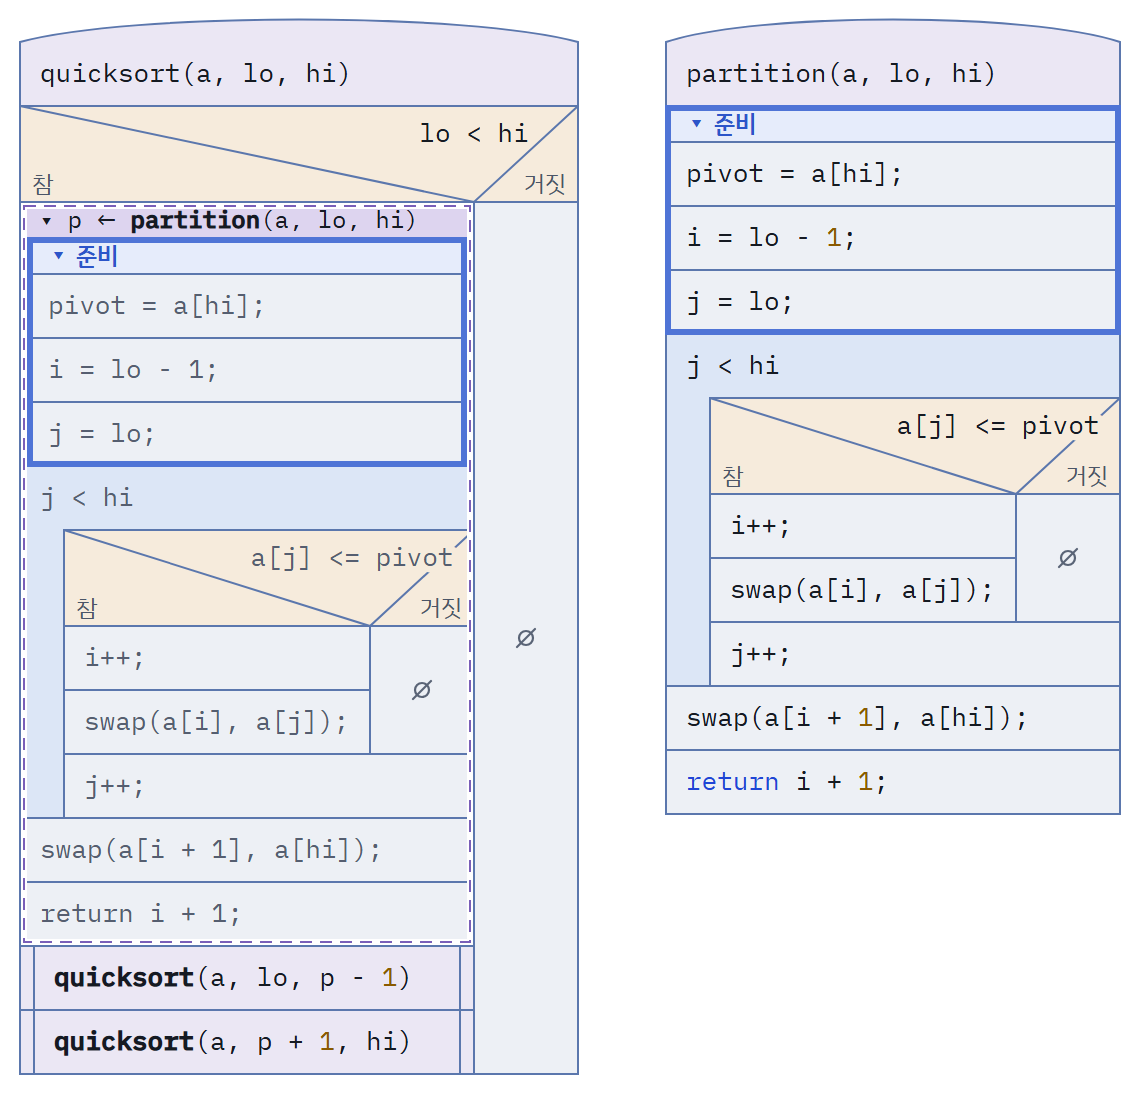
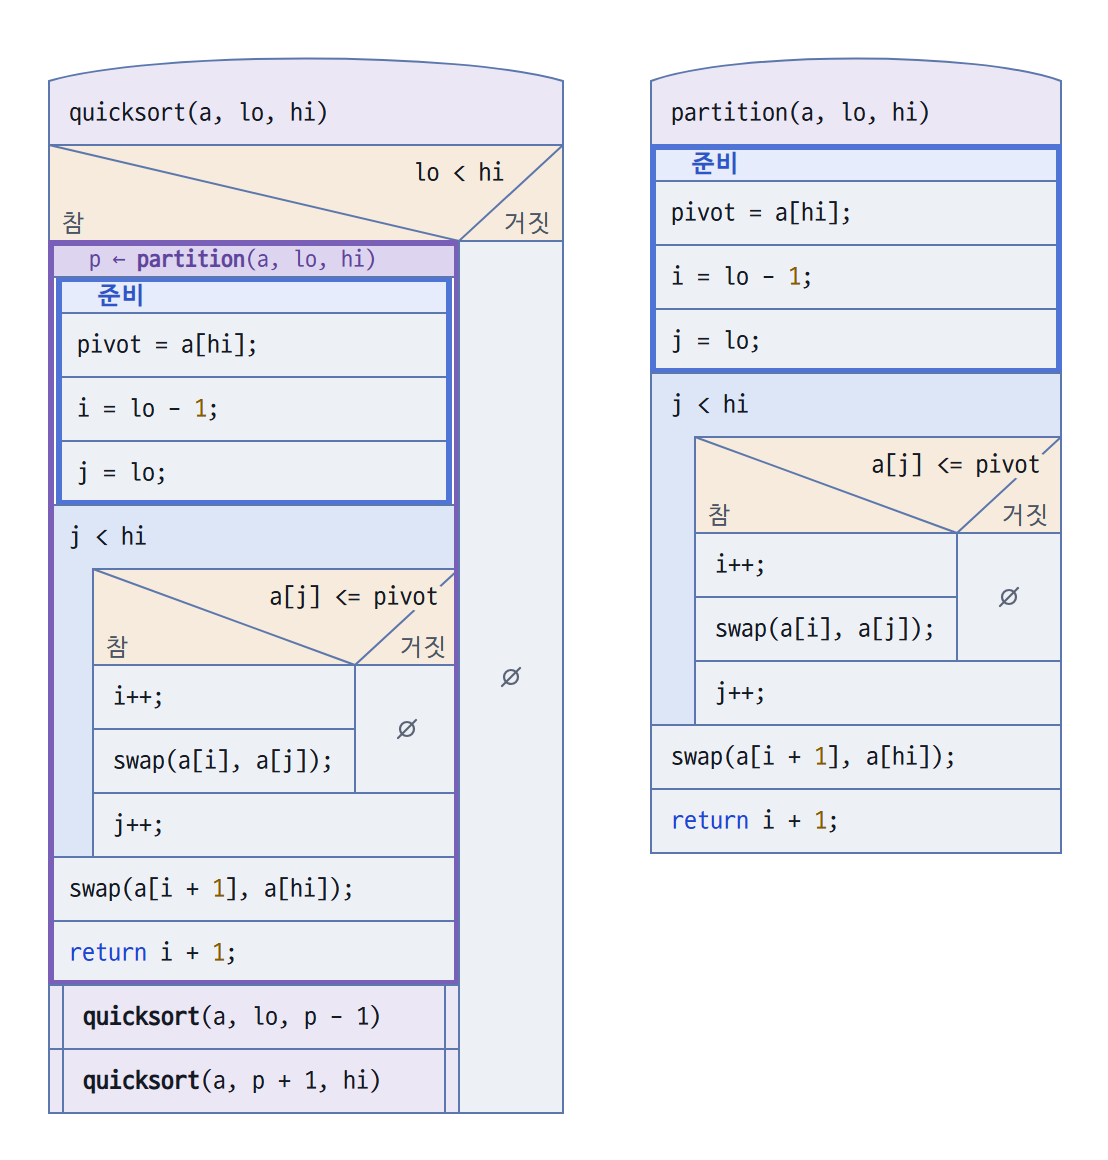
docs(visual-design): 시각 디자인 문서를 지금 코드에 맞게 현행화
글꼴을 하나로(비례폭 자리 없앰), 화면 색의 역할, 선 · 상태 표의 값(이름 띠 아래 구조선,
드롭 눈금, 상태 표시줄의 모드 자리 등), 해부도의 접기 영역을 코드에 맞춘다. 문서 레이어
그림은 앱의 렌더러로 다시 그린다. 11장은 프로토타입과의 차이 대신 명세와 지금 코드가
다른 곳을 적는다. 어느 쪽이 맞는지 정하지 못한 곳은 명세를 그대로 두고 11장에 밝힌다.

diff --git a/journal/assets/2026-11-18-visual-design-marks.html b/journal/assets/2026-11-18-visual-design-marks.html
@@ -1,0 +1,83 @@
[1 lines of base64/hex data omitted]
+<path d="M24 40 C75.4 25 229.6 25 281 40 L281 72 L24 72 Z" fill="#ebe7f4" stroke="#5b77ad" stroke-width="1"/>
+<text x="34" y="60" font-size="13" fill="#151a22" xml:space="preserve">quicksort(a, lo, hi)</text>
+<rect x="24" y="72" width="257" height="48" fill="#f6ebdc" stroke="#5b77ad" stroke-width="1" shape-rendering="crispEdges"/>
+<path d="M24 72 L229 120 L281 72" fill="none" stroke="#5b77ad" stroke-width="1"/>
+<text x="229" y="90" text-anchor="middle" font-size="13" fill="#151a22" stroke="#f6ebdc" stroke-width="6" stroke-linejoin="round" paint-order="stroke" xml:space="preserve">lo &lt; hi</text>
+<text x="30" y="115" font-size="12" fill="#4b5567" xml:space="preserve">참</text>
+<text x="275" y="115" text-anchor="end" font-size="12" fill="#4b5567" xml:space="preserve">거짓</text>
+<rect x="28" y="156" width="197" height="32" fill="#edf0f5" stroke="#5b77ad" stroke-width="1" shape-rendering="crispEdges"/>
+<text x="38" y="176" font-size="13" fill="#151a22" xml:space="preserve">pivot = a[hi];</text>
+<rect x="28" y="188" width="197" height="32" fill="#edf0f5" stroke="#5b77ad" stroke-width="1" shape-rendering="crispEdges"/>
+<text x="38" y="208" font-size="13" fill="#151a22" xml:space="preserve">i = lo - <tspan fill="#8a5a00">1</tspan>;</text>
+<rect x="28" y="220" width="197" height="32" fill="#edf0f5" stroke="#5b77ad" stroke-width="1" shape-rendering="crispEdges"/>
+<text x="38" y="240" font-size="13" fill="#151a22" xml:space="preserve">j = lo;</text>
+<rect x="28" y="138" width="197" height="18" fill="#e6ecfb" stroke="#5b77ad" stroke-width="1" shape-rendering="crispEdges"/>
+<text x="48" y="151" font-size="12" fill="#2c55c9" xml:space="preserve"><tspan font-weight="600">준비</tspan></text>
+<rect x="29" y="139" width="195" height="112" fill="none" stroke="#4f74d6" stroke-width="3" shape-rendering="crispEdges"/>
+<rect x="24" y="252" width="205" height="176" fill="#dce6f6" stroke="#5b77ad" stroke-width="1" shape-rendering="crispEdges"/>
+<text x="34" y="272" font-size="13" fill="#151a22" xml:space="preserve">j &lt; hi</text>
+<rect x="46" y="284" width="183" height="48" fill="#f6ebdc" stroke="#5b77ad" stroke-width="1" shape-rendering="crispEdges"/>
+<path d="M46 284 L177 332 L229 284" fill="none" stroke="#5b77ad" stroke-width="1"/>
+<text x="176.5" y="302" text-anchor="middle" font-size="13" fill="#151a22" stroke="#f6ebdc" stroke-width="6" stroke-linejoin="round" paint-order="stroke" xml:space="preserve">a[j] &lt;= pivot</text>
+<text x="52" y="327" font-size="12" fill="#4b5567" xml:space="preserve">참</text>
+<text x="223" y="327" text-anchor="end" font-size="12" fill="#4b5567" xml:space="preserve">거짓</text>
+<rect x="46" y="332" width="131" height="32" fill="#edf0f5" stroke="#5b77ad" stroke-width="1" shape-rendering="crispEdges"/>
+<text x="56" y="352" font-size="13" fill="#151a22" xml:space="preserve">i++;</text>
+<rect x="46" y="364" width="131" height="32" fill="#edf0f5" stroke="#5b77ad" stroke-width="1" shape-rendering="crispEdges"/>
+<text x="56" y="384" font-size="13" fill="#151a22" xml:space="preserve">swap(a[i], a[j]);</text>
+<rect x="177" y="332" width="52" height="64" fill="#edf0f5" stroke="#5b77ad" stroke-width="1" shape-rendering="crispEdges"/>
+<circle cx="203" cy="364" r="3.5" fill="none" stroke="#5a6476" stroke-width="1.1"/>
+<path d="M198.5 368.5 L207.5 359.5" fill="none" stroke="#5a6476" stroke-width="1.1" stroke-linecap="round"/>
+<rect x="46" y="396" width="183" height="32" fill="#edf0f5" stroke="#5b77ad" stroke-width="1" shape-rendering="crispEdges"/>
+<text x="56" y="416" font-size="13" fill="#151a22" xml:space="preserve">j++;</text>
+<rect x="24" y="428" width="205" height="32" fill="#edf0f5" stroke="#5b77ad" stroke-width="1" shape-rendering="crispEdges"/>
+<text x="34" y="448" font-size="13" fill="#151a22" xml:space="preserve">swap(a[i + <tspan fill="#8a5a00">1</tspan>], a[hi]);</text>
+<rect x="24" y="460" width="205" height="32" fill="#edf0f5" stroke="#5b77ad" stroke-width="1" shape-rendering="crispEdges"/>
+<text x="34" y="480" font-size="13" fill="#151a22" xml:space="preserve"><tspan fill="#1f45d6">return</tspan> i + <tspan fill="#8a5a00">1</tspan>;</text>
+<rect x="24" y="120" width="205" height="18" fill="#ddd4ef" stroke="#5b77ad" stroke-width="1" shape-rendering="crispEdges"/>
+<text x="44" y="133" font-size="12" fill="#5f459f" xml:space="preserve">p ← <tspan font-weight="600">partition</tspan>(a, lo, hi)</text>
+<rect x="25" y="121" width="203" height="370" fill="none" stroke="#7a5fb8" stroke-width="3" shape-rendering="crispEdges"/>
+<rect x="24" y="492" width="205" height="32" fill="#ebe7f4" stroke="#5b77ad" stroke-width="1" shape-rendering="crispEdges"/>
+<path d="M31 492 L31 524" fill="none" stroke="#5b77ad" stroke-width="1"/>
+<path d="M222 492 L222 524" fill="none" stroke="#5b77ad" stroke-width="1"/>
+<text x="41" y="512" font-size="13" fill="#151a22" xml:space="preserve"><tspan font-weight="600">quicksort</tspan>(a, lo, p - 1)</text>
+<rect x="24" y="524" width="205" height="32" fill="#ebe7f4" stroke="#5b77ad" stroke-width="1" shape-rendering="crispEdges"/>
+<path d="M31 524 L31 556" fill="none" stroke="#5b77ad" stroke-width="1"/>
+<path d="M222 524 L222 556" fill="none" stroke="#5b77ad" stroke-width="1"/>
+<text x="41" y="544" font-size="13" fill="#151a22" xml:space="preserve"><tspan font-weight="600">quicksort</tspan>(a, p + 1, hi)</text>
+<rect x="229" y="120" width="52" height="436" fill="#edf0f5" stroke="#5b77ad" stroke-width="1" shape-rendering="crispEdges"/>
+<circle cx="255" cy="338" r="3.5" fill="none" stroke="#5a6476" stroke-width="1.1"/>
+<path d="M250.5 342.5 L259.5 333.5" fill="none" stroke="#5a6476" stroke-width="1.1" stroke-linecap="round"/>
+<path d="M325 40 C366 25 489 25 530 40 L530 72 L325 72 Z" fill="#ebe7f4" stroke="#5b77ad" stroke-width="1"/>
+<text x="335" y="60" font-size="13" fill="#151a22" xml:space="preserve">partition(a, lo, hi)</text>
+<rect x="325" y="90" width="205" height="32" fill="#edf0f5" stroke="#5b77ad" stroke-width="1" shape-rendering="crispEdges"/>
+<text x="335" y="110" font-size="13" fill="#151a22" xml:space="preserve">pivot = a[hi];</text>
+<rect x="325" y="122" width="205" height="32" fill="#edf0f5" stroke="#5b77ad" stroke-width="1" shape-rendering="crispEdges"/>
+<text x="335" y="142" font-size="13" fill="#151a22" xml:space="preserve">i = lo - <tspan fill="#8a5a00">1</tspan>;</text>
+<rect x="325" y="154" width="205" height="32" fill="#edf0f5" stroke="#5b77ad" stroke-width="1" shape-rendering="crispEdges"/>
+<text x="335" y="174" font-size="13" fill="#151a22" xml:space="preserve">j = lo;</text>
+<rect x="325" y="72" width="205" height="18" fill="#e6ecfb" stroke="#5b77ad" stroke-width="1" shape-rendering="crispEdges"/>
+<text x="345" y="85" font-size="12" fill="#2c55c9" xml:space="preserve"><tspan font-weight="600">준비</tspan></text>
+<rect x="326" y="73" width="203" height="112" fill="none" stroke="#4f74d6" stroke-width="3" shape-rendering="crispEdges"/>
+<rect x="325" y="186" width="205" height="176" fill="#dce6f6" stroke="#5b77ad" stroke-width="1" shape-rendering="crispEdges"/>
+<text x="335" y="206" font-size="13" fill="#151a22" xml:space="preserve">j &lt; hi</text>
+<rect x="347" y="218" width="183" height="48" fill="#f6ebdc" stroke="#5b77ad" stroke-width="1" shape-rendering="crispEdges"/>
+<path d="M347 218 L478 266 L530 218" fill="none" stroke="#5b77ad" stroke-width="1"/>
+<text x="477.5" y="236" text-anchor="middle" font-size="13" fill="#151a22" stroke="#f6ebdc" stroke-width="6" stroke-linejoin="round" paint-order="stroke" xml:space="preserve">a[j] &lt;= pivot</text>
+<text x="353" y="261" font-size="12" fill="#4b5567" xml:space="preserve">참</text>
+<text x="524" y="261" text-anchor="end" font-size="12" fill="#4b5567" xml:space="preserve">거짓</text>
+<rect x="347" y="266" width="131" height="32" fill="#edf0f5" stroke="#5b77ad" stroke-width="1" shape-rendering="crispEdges"/>
+<text x="357" y="286" font-size="13" fill="#151a22" xml:space="preserve">i++;</text>
+<rect x="347" y="298" width="131" height="32" fill="#edf0f5" stroke="#5b77ad" stroke-width="1" shape-rendering="crispEdges"/>
+<text x="357" y="318" font-size="13" fill="#151a22" xml:space="preserve">swap(a[i], a[j]);</text>
+<rect x="478" y="266" width="52" height="64" fill="#edf0f5" stroke="#5b77ad" stroke-width="1" shape-rendering="crispEdges"/>
+<circle cx="504" cy="298" r="3.5" fill="none" stroke="#5a6476" stroke-width="1.1"/>
+<path d="M499.5 302.5 L508.5 293.5" fill="none" stroke="#5a6476" stroke-width="1.1" stroke-linecap="round"/>
+<rect x="347" y="330" width="183" height="32" fill="#edf0f5" stroke="#5b77ad" stroke-width="1" shape-rendering="crispEdges"/>
+<text x="357" y="350" font-size="13" fill="#151a22" xml:space="preserve">j++;</text>
+<rect x="325" y="362" width="205" height="32" fill="#edf0f5" stroke="#5b77ad" stroke-width="1" shape-rendering="crispEdges"/>
+<text x="335" y="382" font-size="13" fill="#151a22" xml:space="preserve">swap(a[i + <tspan fill="#8a5a00">1</tspan>], a[hi]);</text>
+<rect x="325" y="394" width="205" height="32" fill="#edf0f5" stroke="#5b77ad" stroke-width="1" shape-rendering="crispEdges"/>
+<text x="335" y="414" font-size="13" fill="#151a22" xml:space="preserve"><tspan fill="#1f45d6">return</tspan> i + <tspan fill="#8a5a00">1</tspan>;</text>
+</g></svg>

diff --git a/journal/assets/2026-11-18-visual-design-marks.test.ts b/journal/assets/2026-11-18-visual-design-marks.test.ts
@@ -1,0 +1,74 @@
+// The picture of 04-visual-design 7.2 (visual-design-document-marks.png), drawn by the app's own
+// renderer: quicksort opens its partition call, and partition has the fold region "준비".
+// Run from the editor package (no config, globals on, root here):
+//   cd src/packages/editor
+//   npx vitest run --root ../../../journal/assets --globals --environment node 2026-11-18-visual-design-marks
+// Writes 2026-11-18-visual-design-marks.html next to this file; take the PNG of it with Chrome at
+// twice the size (the size is in the page's <title>).
+import { writeFileSync } from 'node:fs';
+
+import type { Block, Doc, Id } from '../../src/packages/core/src/index';
+import { layout } from '../../src/packages/core/src/layout/layout';
+import { buildScene } from '../../src/packages/core/src/render/build-scene';
+import { defaultTheme } from '../../src/packages/core/src/render/theme';
+import { toSvg } from '../../src/packages/core/src/render/to-svg';
+import { usedCodePoints } from '../../src/packages/core/src/render/used-code-points';
+import { blockFont } from '../../src/packages/fonts/src/index';
+import { createNodeSubsetter, readFontFile } from '../../src/packages/fonts/node/index';
+import { buildExample, method } from '../../src/packages/editor/src/examples/build-example';
+
+const quicksort = method('quicksort(a, lo, hi)', [
+  [
+    'if',
+    'lo < hi',
+    [
+      ['call', 'partition(a, lo, hi)', 'a, lo, hi', 'p'],
+      ['call', 'quicksort(a, lo, hi)', 'a, lo, p - 1'],
+      ['call', 'quicksort(a, lo, hi)', 'a, p + 1, hi'],
+    ],
+    [''],
+  ],
+]);
+const partition = method('partition(a, lo, hi)', [
+  ['range', '준비', ['pivot = a[hi];', 'i = lo - 1;', 'j = lo;']],
+  [
+    'while',
+    'j < hi',
+    [['if', 'a[j] <= pivot', ['i++;', 'swap(a[i], a[j]);'], ['']], 'j++;'],
+  ],
+  'swap(a[i + 1], a[hi]);',
+  'return i + 1;',
+]);
+
+/** The first call block of a list of blocks, looking inside the branches of an If. */
+function firstCall(blocks: ReadonlyArray<Block>): Id | undefined {
+  for (const block of blocks) {
+    if (block.kind === 'call') return block.id;
+    if (block.kind === 'if') {
+      const inside = firstCall(block.yes.body.blocks);
+      if (inside !== undefined) return inside;
+    }
+  }
+  return undefined;
+}
+
+it('draws the picture of the document marks', async () => {
+  const built = buildExample([quicksort, partition], { headStyle: 'shape', locale: 'ko' });
+  const call = firstCall(built.content.diagrams[0]?.body.blocks ?? []);
+  if (call === undefined) throw new Error('no call block');
+  const doc: Doc = { ...built, view: { ...built.view, opened: [[call]], bands: true } };
+
+  const scene = buildScene(layout(doc), defaultTheme, 'c');
+  const svg = toSvg(scene);
+  const subsetter = await createNodeSubsetter();
+  const ttf = await readFontFile(blockFont.files.ttf);
+  const woff = Buffer.from(subsetter.subsetToWoff(ttf, [...usedCodePoints(scene)])).toString('base64');
+  const face = `@font-face{font-family:'${blockFont.familyName}';src:url(data:font/woff;base64,${woff})}`;
+  const page =
+    `<!doctype html><meta charset="utf-8"><title>${String(svg.width)}x${String(svg.height)}</title>` +
+    `<style>${face}html,body{margin:0;background:#fff}svg{display:block}</style>` +
+    `<svg xmlns="http://www.w3.org/2000/svg" width="${String(svg.width)}" height="${String(svg.height)}" ` +
+    `viewBox="0 0 ${String(svg.width)} ${String(svg.height)}" font-family="${scene.fontFamily.replaceAll('"', "'")}">` +
+    `${svg.content}</svg>`;
+  writeFileSync(new URL('./2026-11-18-visual-design-marks.html', import.meta.url), page);
+});

diff --git a/atelier/backlog.md b/atelier/backlog.md
@@ -59,7 +59,6 @@ MVP 코드에 남은 구멍(2026-11-01, 1~4단계 개발 에이전트의 보고.
 
 - [ ] [[03-quality-attribute-scenarios]] 3장의 "시각 회귀: Playwright 스크린샷 + 픽셀 비교", 퍼징, "골든 파일 + SHA-256", "벤치마크 모든 커밋"이 실제 테스트(AT-08은 SVG 직렬화 비교, 깨진 입력 목록, 바이트 비교, `pnpm test` 밖의 벤치마크)와 다르다. 설계를 고칠지, 테스트를 설계대로 만들지([[07-testing]]의 "E2E, 시각 회귀", AT-08도)
 - [ ] [[04-visual-design]] 원칙 1의 "저장된 SVG에 편집 레이어의 색이 나오지 않는 것을 프로토타입 테스트가 확인한다": MVP 테스트에는 없다. 테스트를 더할지
-- [ ] [[04-visual-design]]의 원칙 4 그림(프로토타입 66번째 판의 화면)을 MVP 화면으로 다시 찍을지, 11장 "지금 프로토타입과 다른 곳"에 "MVP와 다른 곳"을 둘지
 - [ ] If ↔ Case로 바꿀지 묻는 모양: MVP는 상태 표시줄의 버튼으로 묻는다. [[02-interaction-rules#If ↔ Case로 바꾸기]]의 "정하지 않았다"를 이것으로 정할지
 - [ ] [[03-architecture]]의 크기 숫자(800자 114 KB와 [[02-layout]]의 118 KB, wasm 652 KB와 [[06-web]]의 667 KB)를 맞출지, core 폴더 목록 · 코드 트리의 `apps/obsidian` · `apps/desktop`(아직 없음)을 계획으로 밝힐지
 - [ ] [[07-testing]]의 "프로토타입의 테스트 시나리오를 `editor`의 명령 테스트로 옮긴다"가 되었는지 확인
@@ -113,6 +112,7 @@ MVP 뒤로 미뤄도 되는 것: 블록 글자의 종류 목록(MVP에서 미룬
 - [ ] 품질 속성 시나리오의 제안값과 유즈케이스의 미결정(열기 · 저장 · 노트에 넣기의 빈 곳 아홉)을 메인테이너와 하나씩 정한다. 물음은 그 문서들의 미결정 절이 원본 → [[03-quality-attribute-scenarios#4. 미결정 사항]], [[02-use-cases#6. 미결정 사항]] (2026-10-22)
 - [ ] 용어집 [[06-glossary]]에 본문에서 쓰지만 뜻을 적지 않은 낱말을 더한다(2026-10-25 정합성 검토): 배포 대상, 공유 URL, 보기 모드, 이어진 곳을 잃은 호출 블록, 이름을 적는 호출 블록, 다른 문서의 Method, 따라가기, 갈래 이름, 빈 갈래(`∅`), 머리 모양, 블록 글꼴 · 기본 블록 글꼴, 구문 강조, 흑백 인쇄 팔레트, Method로 빼기, 접기 영역 풀기, 펴 보기의 띠, MVP. 다국어 일(위 "요구사항과 UX 설계")과 함께 하면 좋다
 
+- [ ] 시각 디자인 문서의 스크린숏 가운데 프로토타입에서 찍은 것(화면 · Case · 선택 · 키보드 포커스 등)을 MVP에서 다시 찍기. 문서 레이어 그림(`visual-design-document-marks.png`)만 2026-11-18에 앱의 렌더러로 다시 그림 → [[04-visual-design#7.2 그림]]
 - [ ] C&C 그림(draw.io SVG)이 어두운 테마에서 포트 ■ □의 구별이 흐려짐. 흰 배경으로 고정할지 → [[03-architecture#3. 실행 중의 모습]]
 
 - [ ] C&C 뷰에 셸 → 세션의 커넥터(`EditorHandle.open`: 문서 바꾸기)가 없음. 실패 흐름 [[03-architecture#5.3 깨진 파일 열기]]에서 드러남 → [[03-architecture#3.5 커넥터]] (2026-11-17)

diff --git a/atelier/prototype.md b/atelier/prototype.md
@@ -50,7 +50,7 @@ updated: 2026-11-01
 
 ## 알려진 구멍
 
-- [ ] 시각 디자인 명세와 다른 곳 (보고: 2026-10-17, 62번째 판에서 고침: 조건 글자와 빗금) → [[04-visual-design#11. 지금 프로토타입과 다른 곳]]. `▾` `⋯` `←`가 글자로 저장됨, 마우스 올림 · 끌어 놓기 · 받아들일 수 없는 입력의 모습이 없음
+- [ ] 시각 디자인 명세와 다른 곳 (보고: 2026-10-17, 62번째 판에서 고침: 조건 글자와 빗금) → [[04-visual-design#11. 명세와 지금 코드가 다른 곳]]. `▾` `⋯` `←`가 글자로 저장됨, 마우스 올림 · 끌어 놓기 · 받아들일 수 없는 입력의 모습이 없음
 - [ ] 46번째 판의 알려진 구멍 (보고: 2026-10-13): If · Case의 옆 갈래에 펴진 접기 영역이 나란히 있으면 두 테두리가 갈래 사이의 선 한 줄에서 겹친다(틈이 없다). 겹쳐 편 호출 블록 안에서 만든 접기 영역은 호출 블록을 `ds`로 풀 때 따라 들어오지 않는다(맨 바깥 겹의 것만 들어온다). 모두 접기(`zM`)는 이 자리의 접기 영역을 접지 않는다(호출 블록이 접혀 보이지 않을 뿐). 접기 영역의 테두리는 누를 수 없고 띠만 누를 수 있다(막대는 누를 수 있었다). 확대 · 축소한 상태에서는 선이 픽셀에 맞지 않을 수 있다. 오른쪽 클릭 메뉴는 이 자리의 접기 영역에 맞춰 고치지 않았다
 
 - [ ] 40번째 판의 Vim 키에서 알려진 구멍 (보고: 2026-10-13): 영역 고르기(`v`) 중에는 `j` `k`만 넓히고 `h` `l` · `gg` · `G`는 영역을 끝낸다. 다시 하기(`U`) 뒤에는 고른 것이 남지 않는다(`Ctrl`+`Y`도 같음). 안내 패널의 "앞서 바뀐 것"과 "만들며 생긴 질문"은 옛 키로 적혀 있다(그때의 기록이라고 그 위에 적어 둠). 갈래 이름 고치기의 키는 59번째 판에서 `Shift`+`L`로 되살림
